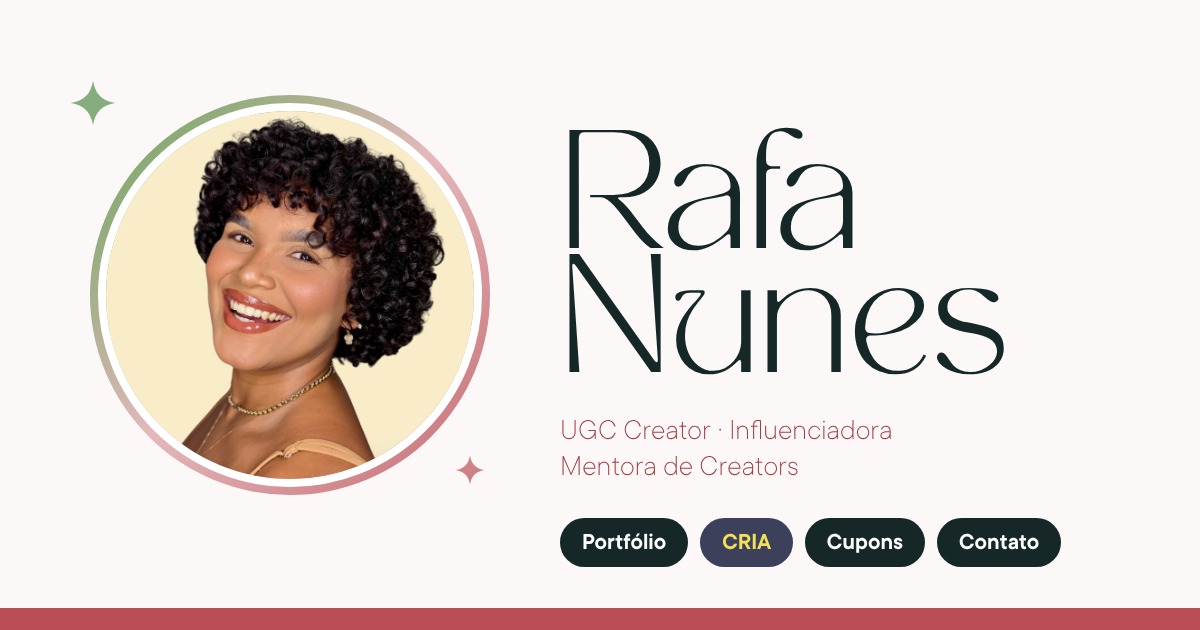
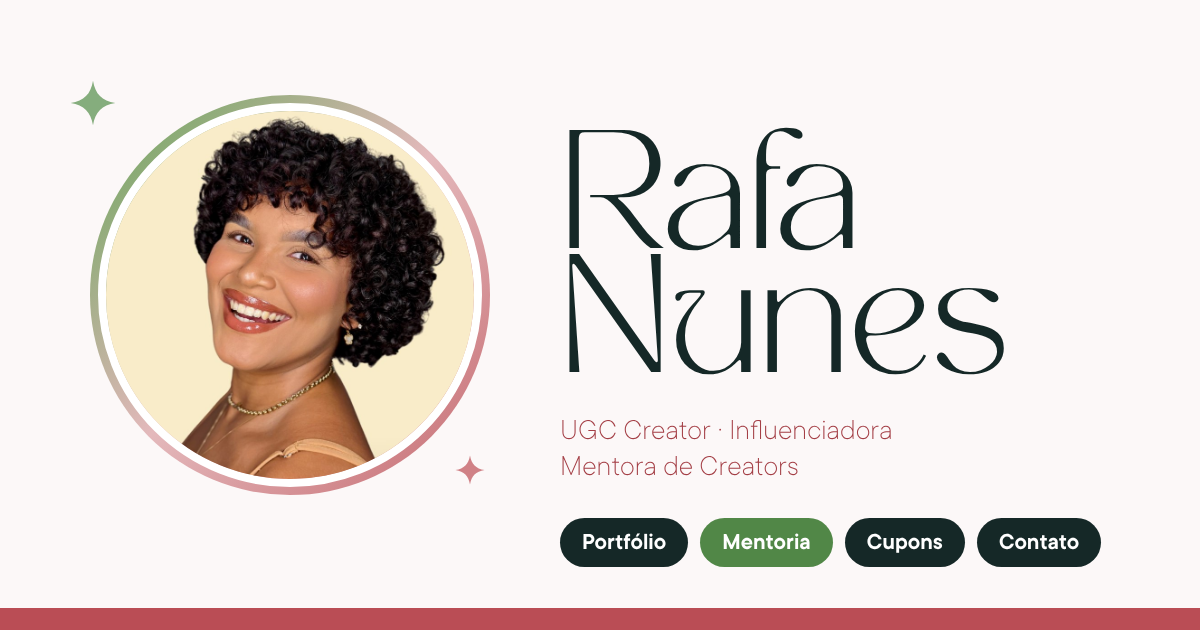
Mentoria vira o destaque do link da bio e o CRIA sai da página
Cartão de venda da mentoria com slogan, +15 alunas, os 4 encontros e preço.
Imagem de prévia do link troca CRIA por Mentoria.

Claude-Session: https://claude.ai/code/session_01WuCWGBABqJn5AsxoaHdXvB

Changed region(s): [[0.5858, 0.8143, 0.925, 0.9048]]

diff --git a/ugc-portfolio/src/app/page.tsx b/ugc-portfolio/src/app/page.tsx
@@ -1,6 +1,6 @@
 import type { Metadata } from "next";
 import Image from "next/image";
-import { ArrowDown, ArrowRight, Briefcase, Send } from "lucide-react";
+import { ArrowDown, ArrowRight, Briefcase, Check, Send } from "lucide-react";
 import { Star } from "@/components/ui/Star";
 import { SocialIcon } from "@/components/ui/SocialIcon";
 import { TagMarquee } from "@/components/public/TagMarquee";
@@ -11,18 +11,19 @@ import {
   CREATOR_PRODUCTS,
   LINKS_PROFILE,
   LINKS_SOCIALS,
+  MENTORIA,
   whatsappLink,
 } from "@/lib/data/links";
 
 export const metadata: Metadata = {
   title: "Rafa Nunes | UGC Creator",
   description:
-    "UGC Creator, influenciadora e mentora de creators. +60 marcas atendidas. Portfólio, mentoria CRIA, cupons de desconto e contato para parcerias.",
+    "UGC Creator, influenciadora e mentora de creators. +60 marcas atendidas e +15 alunas. Portfólio, mentoria individual, cupons de desconto e contato para parcerias.",
   alternates: { canonical: "/" },
   // Prévia ao mandar o link (WhatsApp, Instagram etc.). A imagem vem de app/opengraph-image.png.
   openGraph: {
     title: "Rafa Nunes | UGC Creator",
-    description: "Portfólio, CRIA, mentoria, cupons e contato — tudo num link só.",
+    description: "Portfólio, mentoria, cupons e contato — tudo num link só.",
     siteName: "Rafa Nunes",
     locale: "pt_BR",
     type: "website",
@@ -60,8 +61,6 @@ function SectionHeading({
 }
 
 export default function LinksPage() {
-  const [featured, ...products] = CREATOR_PRODUCTS;
-
   return (
     <main className="min-h-screen bg-white text-ink-900">
       {/* Topo */}
@@ -80,9 +79,9 @@ export default function LinksPage() {
         <p className="mt-1 text-lg font-thin text-wine-700">{LINKS_PROFILE.role}</p>
         <p className="mt-4 text-lg leading-relaxed text-ink-800">{LINKS_PROFILE.bio}</p>
 
-        <div className="mt-6 grid grid-cols-2 gap-3">
+        <div className="mt-6 grid grid-cols-3 gap-2">
           {LINKS_PROFILE.stats.map((stat) => (
-            <div key={stat.label} className="rounded-2xl border border-ink-900/10 px-4 py-3 text-left">
+            <div key={stat.label} className="rounded-2xl border border-ink-900/10 px-3 py-3 text-left">
               <p className="text-xl font-extrabold text-wine-700">{stat.value}</p>
               <p className="text-xs uppercase tracking-wide text-ink-700/60">{stat.label}</p>
             </div>
@@ -105,7 +104,7 @@ export default function LinksPage() {
         </div>
       </section>
 
-      <TagMarquee tags={["UGC Creator", "Influenciadora", "Mentora de Creators", "CRIA"]} />
+      <TagMarquee tags={["UGC Creator", "Influenciadora", "Mentora de Creators", "Mentoria individual"]} />
 
       {/* Sou marca */}
       <section id="marca" className="scroll-mt-4 bg-ink-900 py-14">
@@ -153,74 +152,67 @@ export default function LinksPage() {
       <div className="mx-auto max-w-md px-4">
         {/* Sou creator */}
         <section id="creator" className="scroll-mt-4 pt-14">
-          <SectionHeading eyebrow="Para creators" title="Do zero à" accent="primeira parceria." />
+          <SectionHeading eyebrow="Para creators" title="Do zero à" accent="primeira parceria paga." />
 
-          {featured && (
-            // Cartão do CRIA nas cores da marca do curso (marinho, amarelo e creme).
-            <a
-              href={featured.href}
-              {...linkProps(featured.href)}
-              className="relative block overflow-hidden rounded-2xl bg-[#3c405b] p-7 text-center text-[#f3f0e0] shadow-soft transition hover:-translate-y-0.5"
-            >
-              <span className="absolute inset-x-0 top-0 h-1.5 bg-[#f2e05a]" />
-              <span className="pointer-events-none absolute -left-16 -top-16 h-40 w-40 rounded-full border border-[#f3f0e0]/20" />
-              <span className="pointer-events-none absolute -bottom-20 -right-16 h-44 w-44 rounded-full border border-[#f3f0e0]/20" />
-              {featured.tag && (
-                <p className="text-xs font-semibold uppercase tracking-[0.18em] text-[#f2e05a]">{featured.tag}</p>
-              )}
-              {featured.logo ? (
-                <Image
-                  src={featured.logo}
-                  alt={featured.title}
-                  width={322}
-                  height={146}
-                  className="mx-auto mt-5 h-16 w-auto"
-                />
-              ) : (
-                <h3 className="mt-3 text-4xl font-bold">{featured.title}</h3>
-              )}
-              {featured.subtitle && <p className="mt-2 text-lg text-[#f3f0e0]/90">{featured.subtitle}</p>}
-              <p className="mt-4 leading-relaxed text-[#f3f0e0]/80">{featured.description}</p>
-              {featured.details && (
-                <p className="mt-5 rounded-xl border border-[#f2e05a]/70 px-4 py-3 text-sm font-semibold text-[#f2e05a]">
-                  {featured.details.split(" · ").map((line) => (
-                    <span key={line} className="block">
-                      {line}
-                    </span>
-                  ))}
-                </p>
-              )}
-              <span className="mt-5 flex items-center justify-center gap-2 rounded-full bg-[#f2e05a] px-5 py-3.5 font-semibold text-[#3c405b]">
-                {featured.cta ?? "Quero saber mais"} <ArrowRight className="h-4 w-4" />
+          {/* Mentoria: o principal produto pra creators */}
+          <div className="overflow-hidden rounded-3xl bg-ink-900 text-white shadow-soft">
+            <div className="relative aspect-[4/3]">
+              <Image src={MENTORIA.photo} alt="Rafa Nunes, mentora" fill sizes="448px" className="object-cover object-top" />
+              <span className="absolute left-4 top-4 rounded-full bg-white px-3 py-1 text-xs font-bold uppercase tracking-wide text-ink-900">
+                {MENTORIA.tag}
               </span>
-            </a>
-          )}
+            </div>
+            <div className="p-6">
+              <h3 className="font-sans text-5xl font-extrabold uppercase tracking-tight">{MENTORIA.title}</h3>
+              <p className="mt-1 text-xl font-semibold text-blush-300">{MENTORIA.slogan}</p>
+              <p className="mt-4 leading-relaxed text-white/85">{MENTORIA.pitch}</p>
+
+              <div className="mt-5 grid grid-cols-2 gap-3">
+                {MENTORIA.proof.map((item) => (
+                  <div key={item.label} className="rounded-2xl bg-white/10 px-4 py-3">
+                    <p className="text-3xl font-extrabold">{item.value}</p>
+                    <p className="text-sm text-white/70">{item.label}</p>
+                  </div>
+                ))}
+              </div>
+
+              <p className="mt-6 text-xs font-bold uppercase tracking-[0.18em] text-brand-300">Os 4 encontros</p>
+              <ol className="mt-3 space-y-3">
+                {MENTORIA.steps.map((step, i) => (
+                  <li key={step.title} className="flex gap-3">
+                    <span className="flex h-8 w-8 flex-none items-center justify-center rounded-full bg-brand-600 text-sm font-extrabold">
+                      {i + 1}
+                    </span>
+                    <span>
+                      <span className="block font-semibold">{step.title}</span>
+                      <span className="block text-sm text-white/70">{step.text}</span>
+                    </span>
+                  </li>
+                ))}
+              </ol>
+              <p className="mt-4 flex gap-2 text-sm text-white/85">
+                <Check className="mt-0.5 h-4 w-4 flex-none text-brand-300" />
+                {MENTORIA.bonus}
+              </p>
+
+              <div className="mt-6 rounded-2xl bg-white p-5 text-center text-ink-900">
+                <p className="text-xs font-bold uppercase tracking-[0.18em] text-wine-600">Investimento</p>
+                <p className="mt-1 text-4xl font-extrabold">{MENTORIA.price}</p>
+                <p className="mt-1 text-sm text-ink-700/80">{MENTORIA.priceNote}</p>
+                <a
+                  href={MENTORIA.href}
+                  {...linkProps(MENTORIA.href)}
+                  className="mt-4 flex items-center justify-center gap-2 rounded-full bg-brand-600 px-5 py-4 font-bold text-white transition hover:bg-brand-700"
+                >
+                  {MENTORIA.cta} <ArrowRight className="h-5 w-5" />
+                </a>
+                <p className="mt-2 text-xs text-ink-700/70">Você fala direto comigo no WhatsApp.</p>
+              </div>
+            </div>
+          </div>
 
           <div className="mt-3 space-y-3">
-            {products.map((product) =>
-              product.cria ? (
-                <a
-                  key={product.title}
-                  href={product.href}
-                  {...linkProps(product.href)}
-                  className="group block rounded-2xl bg-[#f3f0e0] p-6 text-[#3c405b] transition hover:-translate-y-0.5"
-                >
-                  {product.tag && (
-                    <span className="block text-xs font-bold uppercase tracking-[0.14em] text-[#a8321f]">
-                      {product.tag}
-                    </span>
-                  )}
-                  <span className="mt-1 flex items-baseline justify-between gap-3">
-                    <span className="text-xl font-bold">{product.title}</span>
-                    {product.price && <span className="flex-none text-xl font-extrabold">{product.price}</span>}
-                  </span>
-                  <span className="mt-1 block text-[#3c405b]/80">{product.description}</span>
-                  <span className="mt-4 flex items-center justify-center gap-2 rounded-full bg-[#3c405b] px-5 py-3 font-semibold text-[#f2e05a]">
-                    {product.cta ?? "Quero saber mais"}
-                    <ArrowRight className="h-4 w-4 transition group-hover:translate-x-1" />
-                  </span>
-                </a>
-              ) : (
+            {CREATOR_PRODUCTS.map((product) => (
               <a
                 key={product.title}
                 href={product.href}
@@ -245,8 +237,7 @@ export default function LinksPage() {
                 </span>
                 <ArrowRight className="h-5 w-5 flex-none text-wine-500 transition group-hover:translate-x-1" />
               </a>
-              ),
-            )}
+            ))}
           </div>
         </section>
 

diff --git a/ugc-portfolio/src/lib/data/links.ts b/ugc-portfolio/src/lib/data/links.ts
@@ -17,6 +17,7 @@ export const LINKS_PROFILE = {
   stats: [
     { value: "+60", label: "marcas atendidas" },
     { value: "25K", label: "seguidores" },
+    { value: "+15", label: "alunas" },
   ],
   email: "rafaellanunes.contato@gmail.com",
 };
@@ -39,44 +40,40 @@ export const BRAND_LINKS = [
   },
 ];
 
-// Seção "Sou creator" — o primeiro item aparece em destaque.
+// Seção "Sou creator": a mentoria em destaque, seguida dos outros produtos.
+export const MENTORIA = {
+  tag: "Mentoria individual · vagas limitadas",
+  title: "Mentoria",
+  slogan: "Transformando conteúdo em profissão.",
+  photo: "/images/portrait-2.jpg",
+  pitch:
+    "30 dias comigo, só você e eu. Nada de aula genérica: tudo pensado pro seu perfil, o seu nicho e o seu momento, até você fechar com marcas.",
+  proof: [
+    { value: "+15", label: "alunas mentoradas" },
+    { value: "+60", label: "marcas que eu já atendi" },
+  ],
+  steps: [
+    { title: "Posicionamento e perfil", text: "Bio e direção pra marca entender quem você é logo de cara." },
+    { title: "Conteúdo", text: "Vídeos que conectam e têm cara de parceria paga." },
+    { title: "Portfólio", text: "Um portfólio profissional pra mandar pras marcas." },
+    { title: "Abordagem", text: "Como achar as marcas certas e ser aprovada." },
+  ],
+  bonus: "Entre um encontro e outro, eu acompanho o que você produz e ajusto tudo na prática.",
+  price: "R$ 998",
+  priceNote: "4 encontros individuais + acompanhamento por 30 dias",
+  href: whatsappLink("Oi, Rafa! Quero garantir minha vaga na mentoria."),
+  cta: "Quero minha vaga na mentoria",
+};
+
 export type ProductLink = {
   tag?: string;
   title: string;
   description: string;
   href: string;
-  cta?: string;
   soon?: boolean;
-  // Imagem do logo (em /public). Quando existir, aparece no lugar do título.
-  logo?: string;
-  subtitle?: string;
-  details?: string;
-  price?: string;
-  // Produtos do CRIA usam as cores da marca do curso.
-  cria?: boolean;
 };
 
 export const CREATOR_PRODUCTS: ProductLink[] = [
-  {
-    tag: "Curso ao vivo · Método CRIA",
-    title: "CRIA LAB",
-    logo: "/images/cria-logo.png",
-    subtitle: "Da criação à profissionalização",
-    description:
-      "7 aulas ao vivo para transformar criação de conteúdo em posicionamento, oportunidade e profissão.",
-    details: "Aulas ao vivo de 19/10 a 09/11 · segundas e quartas, 19h30",
-    href: "https://criametodo.netlify.app",
-    cta: "Quero minha vaga no CRIA LAB",
-  },
-  {
-    tag: "Mentoria individual",
-    title: "CRIA 1:1 com a Rafa",
-    description: "30 dias · 4 encontros individuais · acompanhamento direto comigo",
-    price: "R$ 998",
-    href: whatsappLink("Oi, Rafa! Quero a mentoria CRIA 1:1."),
-    cta: "Quero a mentoria com a Rafa",
-    cria: true,
-  },
   {
     tag: "Em breve",
     title: "Modelo de portfólio",
